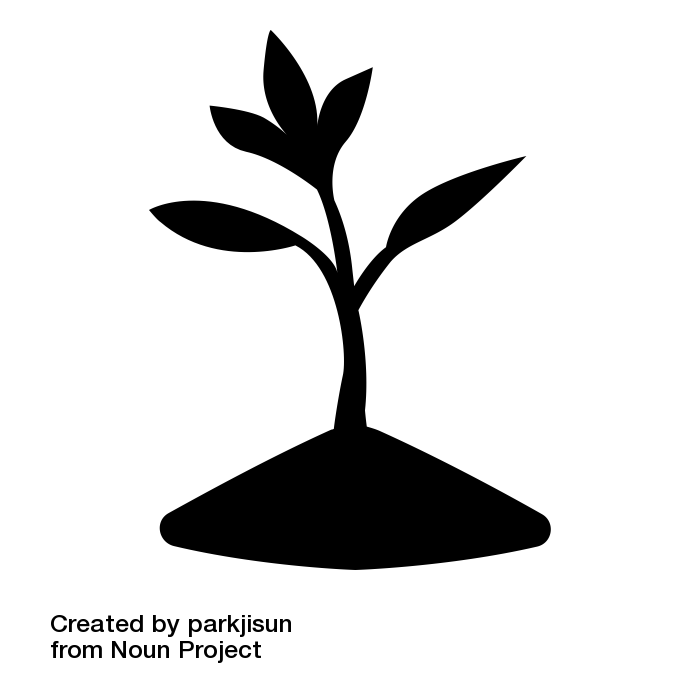
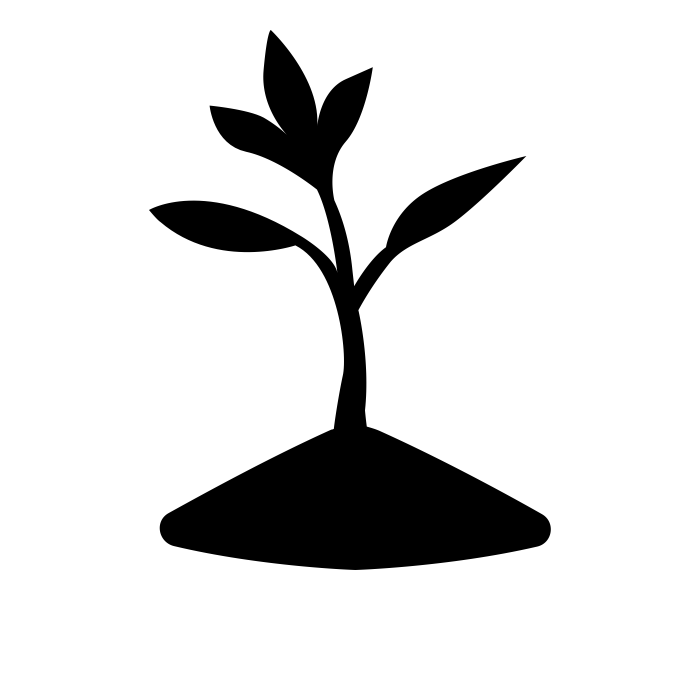
Completed documentation work. Closes #23
- Updated readme to point to documentation
- Added logo to documentation
- Tweaked docfx.json to work with Cake
- Updated Cake script to build and push documentation to GitHub pages
- Added missing documentation to AutomaticContainerRegistration

Changed region(s): [[0.06, 0.87, 0.42, 0.96]]

diff --git a/VaraniumSharp/DependencyInjection/AutomaticContainerRegistration.cs b/VaraniumSharp/DependencyInjection/AutomaticContainerRegistration.cs
@@ -57,6 +57,7 @@ namespace VaraniumSharp.DependencyInjection
         /// Call to retrieve classes that request Automatic registration
         /// Can optionally continue with registration
         /// </summary>
+        /// <param name="handleRegistration">Set to false to manually register class, otherwise use true</param>
         public virtual void RetrieveClassesRequiringRegistration(bool handleRegistration)
         {
             ClassesToRegister.AddRange(
@@ -74,6 +75,10 @@ namespace VaraniumSharp.DependencyInjection
             RegisterClasses();
         }
 
+        /// <summary>
+        /// Call to retrieve classes that request Automatic Concretion registation
+        /// </summary>
+        /// <param name="handleRegistration">Set to false to manually register class, otherwise use true</param>
         public virtual void RetrieveConcretionClassesRequiringRegistration(bool handleRegistration)
         {
             var classes = AppDomain.CurrentDomain.GetAssemblies()

diff --git a/docfx_project/index.md b/docfx_project/index.md
@@ -1,5 +1,7 @@
 # VaraniumSharp
 
+![Logo](images/logo.png)
+
 [![Build status](https://ci.appveyor.com/api/projects/status/vgyue0pbd6fqant0/branch/master?svg=true)](https://ci.appveyor.com/project/DeadlyEmbrace/varaniumsharp/branch/master)
 [![NuGet](https://img.shields.io/nuget/v/VaraniumSharp.svg)](https://www.nuget.org/packages/VaraniumSharp/)
 [![Coverage Status](https://coveralls.io/repos/github/NinetailLabs/VaraniumSharp/badge.svg?branch=master)](https://coveralls.io/github/NinetailLabs/VaraniumSharp?branch=master)

diff --git a/readme.md b/readme.md
@@ -6,9 +6,7 @@
 
 A very simple helper library with the goal of having reusable, reliable components.
 
-
-Current functionality:
-- GetConfigurationValue extension - Retrieve typed configuration value from AppSettings based on string key 
+For a detailed overview of the library see our [documentation](https://ninetaillabs.github.io/VaraniumSharp/index.html)
 
 ## Icon
 [Sprout](https://thenounproject.com/term/sprout/607325/) by [parkjisun](https://thenounproject.com/naripuru/) from the Noun Project
